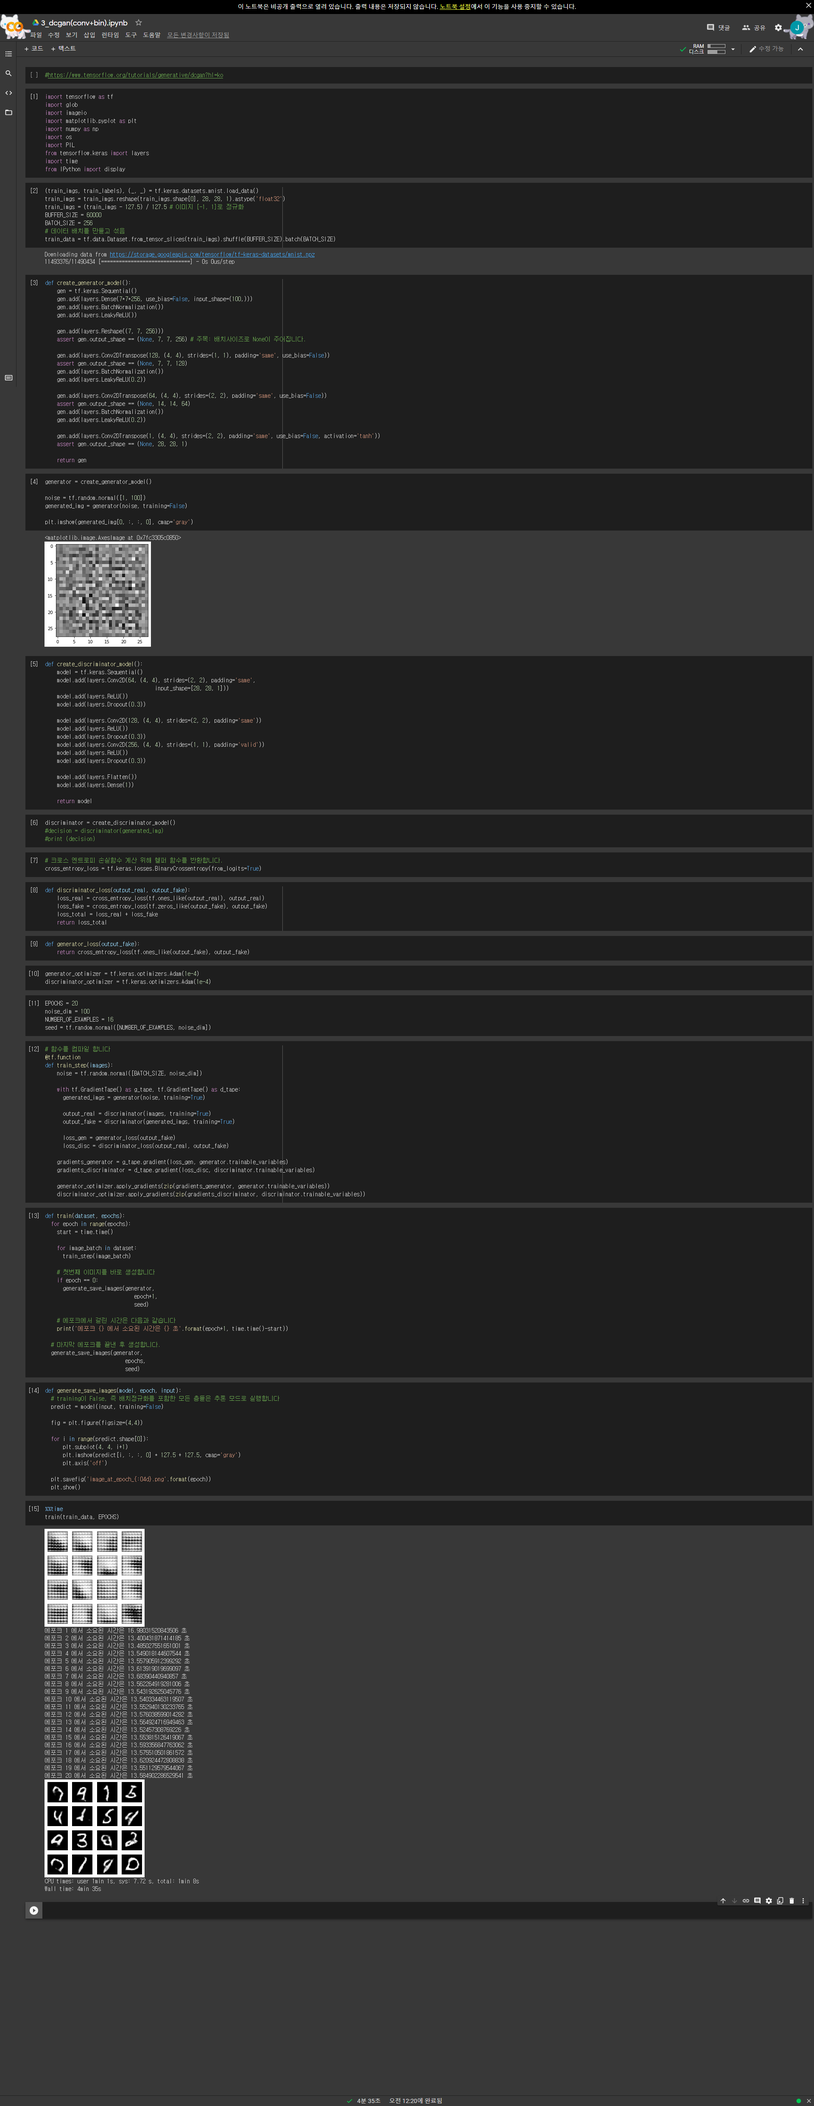
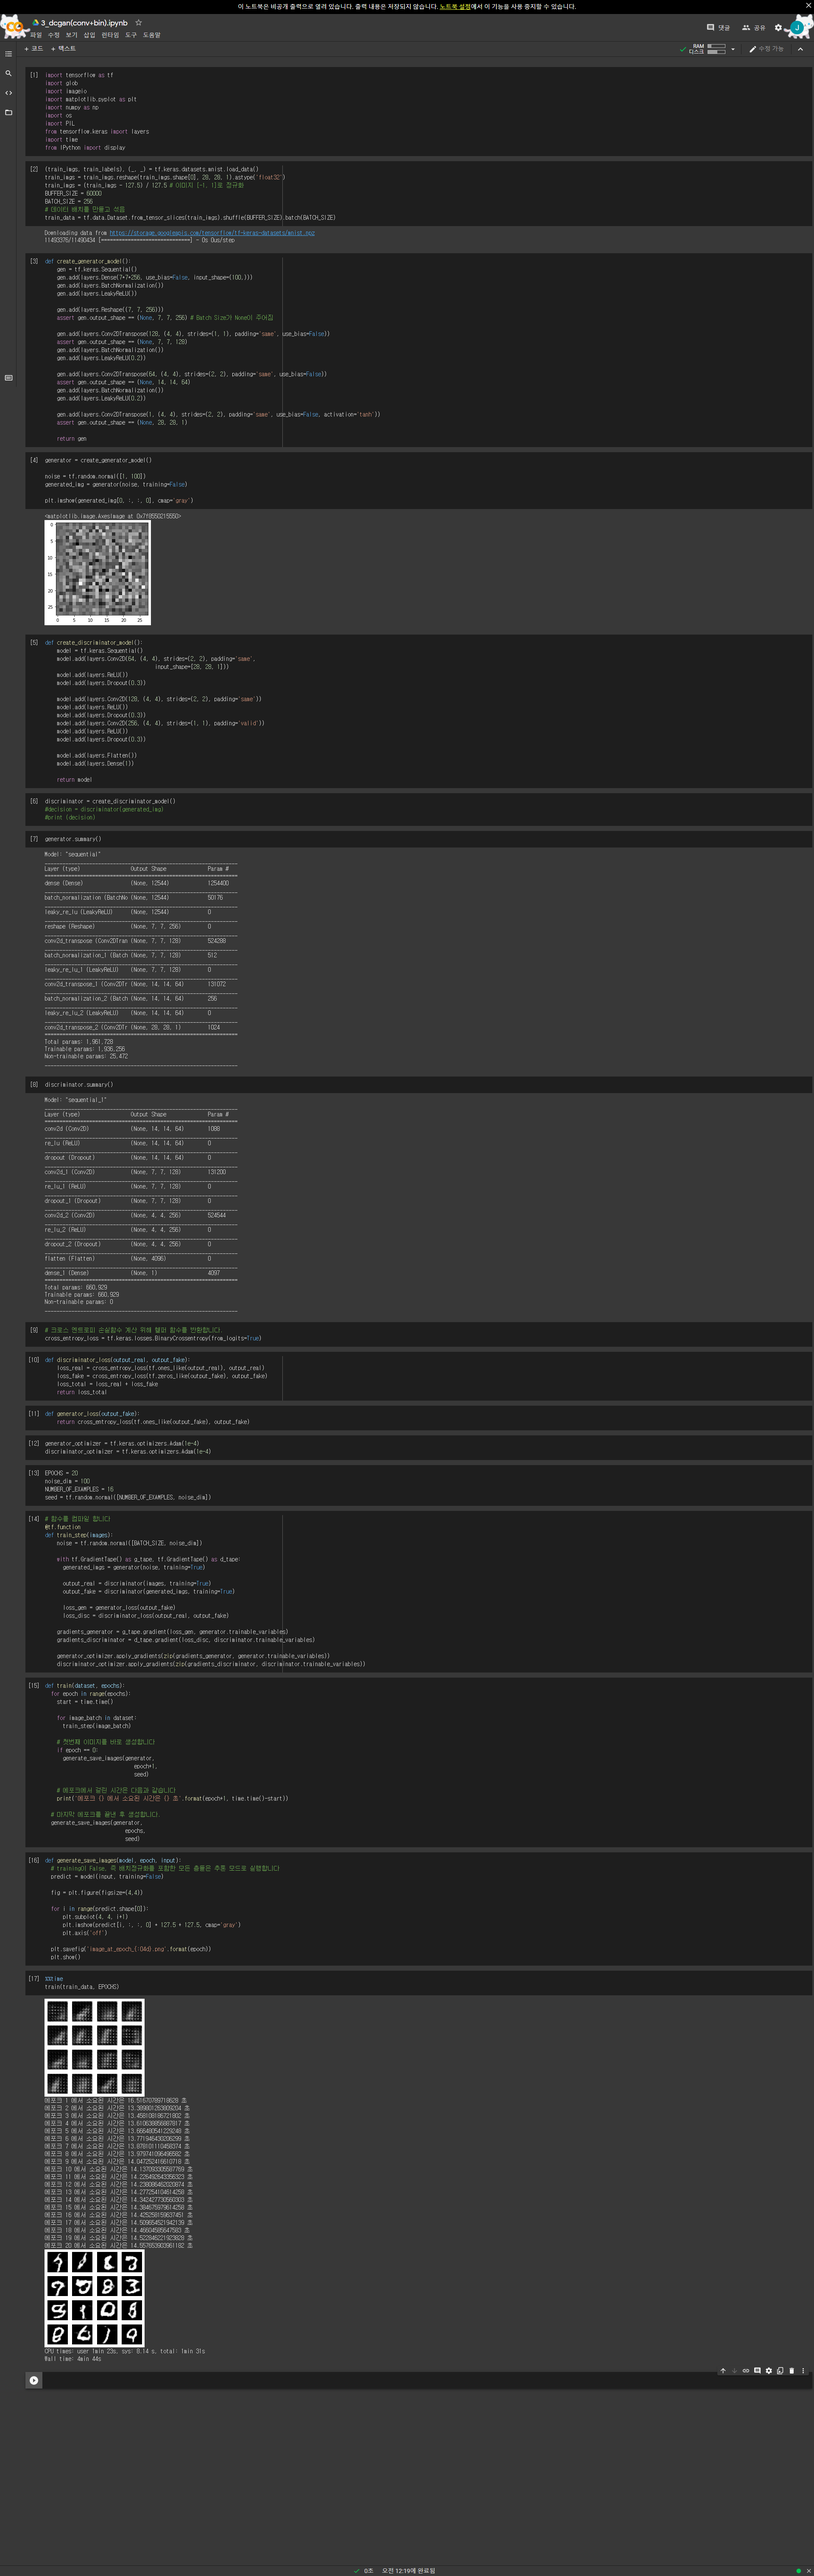
asdf

diff --git a/2021_PBL/PBL최종발표4_lsgan(conv+mse).py b/2021_PBL/PBL최종발표4_lsgan(conv+mse).py
@@ -4,10 +4,8 @@
 Automatically generated by Colaboratory.
 
 Original file is located at
-    https://colab.research.google.com/drive/1rvhBCiZaaTXB978XFJ_1tgzbt-AByL2b
+    https://colab.research.google.com/drive/1cXoAhAUSFY8ywINtFi-oqVaPlLRfcFaF
 """
-
-#https://www.tensorflow.org/tutorials/generative/dcgan?hl=ko
 
 import tensorflow as tf
 import glob
@@ -35,7 +33,7 @@ def create_generator_model():
     gen.add(layers.LeakyReLU())
 
     gen.add(layers.Reshape((7, 7, 256)))
-    assert gen.output_shape == (None, 7, 7, 256) # 주목: 배치사이즈로 None이 주어집니다.
+    assert gen.output_shape == (None, 7, 7, 256) # Batch Size가 None이 주어짐
 
     gen.add(layers.Conv2DTranspose(128, (4, 4), strides=(1, 1), padding='same', use_bias=False))
     assert gen.output_shape == (None, 7, 7, 128)
@@ -82,6 +80,10 @@ discriminator = create_discriminator_model()
 #decision = discriminator(generated_img)
 #print (decision)
 
+generator.summary()
+
+discriminator.summary()
+
 # 크로스 엔트로피 손실함수 계산 위해 헬퍼 함수를 반환합니다.
 cross_entropy_loss = tf.keras.losses.MeanSquaredError()
 
@@ -94,7 +96,7 @@ def discriminator_loss(output_real, output_fake):
 def generator_loss(output_fake):
     return cross_entropy_loss(tf.ones_like(output_fake), output_fake)
 
-generator_optimizer = tf.keras.optimizers.Adam(2e-4)
+generator_optimizer = tf.keras.optimizers.Adam(1e-4)
 discriminator_optimizer = tf.keras.optimizers.Adam(1e-4)
 
 EPOCHS = 20
@@ -158,6 +160,6 @@ def generate_save_images(model, epoch, input):
   plt.show()
 
 # Commented out IPython magic to ensure Python compatibility.
-# %%time
-# train(train_data, EPOCHS)
+%%time
+train(train_data, EPOCHS)
 

diff --git a/2021_PBL/PBL최종발표3_dcgan(conv+binary).py b/2021_PBL/PBL최종발표3_dcgan(conv+binary).py
@@ -4,10 +4,8 @@
 Automatically generated by Colaboratory.
 
 Original file is located at
-    https://colab.research.google.com/drive/1ssaVggqPNo5pYql9jBLO3ZWN_oJb5VdB
+    https://colab.research.google.com/drive/1xw7RWxSl0_o51gNJapsuny4Ana9P9URo
 """
-
-#https://www.tensorflow.org/tutorials/generative/dcgan?hl=ko
 
 import tensorflow as tf
 import glob
@@ -35,7 +33,7 @@ def create_generator_model():
     gen.add(layers.LeakyReLU())
 
     gen.add(layers.Reshape((7, 7, 256)))
-    assert gen.output_shape == (None, 7, 7, 256) # 주목: 배치사이즈로 None이 주어집니다.
+    assert gen.output_shape == (None, 7, 7, 256) # Batch Size가 None이 주어짐
 
     gen.add(layers.Conv2DTranspose(128, (4, 4), strides=(1, 1), padding='same', use_bias=False))
     assert gen.output_shape == (None, 7, 7, 128)
@@ -81,6 +79,10 @@ def create_discriminator_model():
 discriminator = create_discriminator_model()
 #decision = discriminator(generated_img)
 #print (decision)
+
+generator.summary()
+
+discriminator.summary()
 
 # 크로스 엔트로피 손실함수 계산 위해 헬퍼 함수를 반환합니다.
 cross_entropy_loss = tf.keras.losses.BinaryCrossentropy(from_logits=True)
@@ -158,6 +160,6 @@ def generate_save_images(model, epoch, input):
   plt.show()
 
 # Commented out IPython magic to ensure Python compatibility.
-# %%time
-# train(train_data, EPOCHS)
+%%time
+train(train_data, EPOCHS)
 
